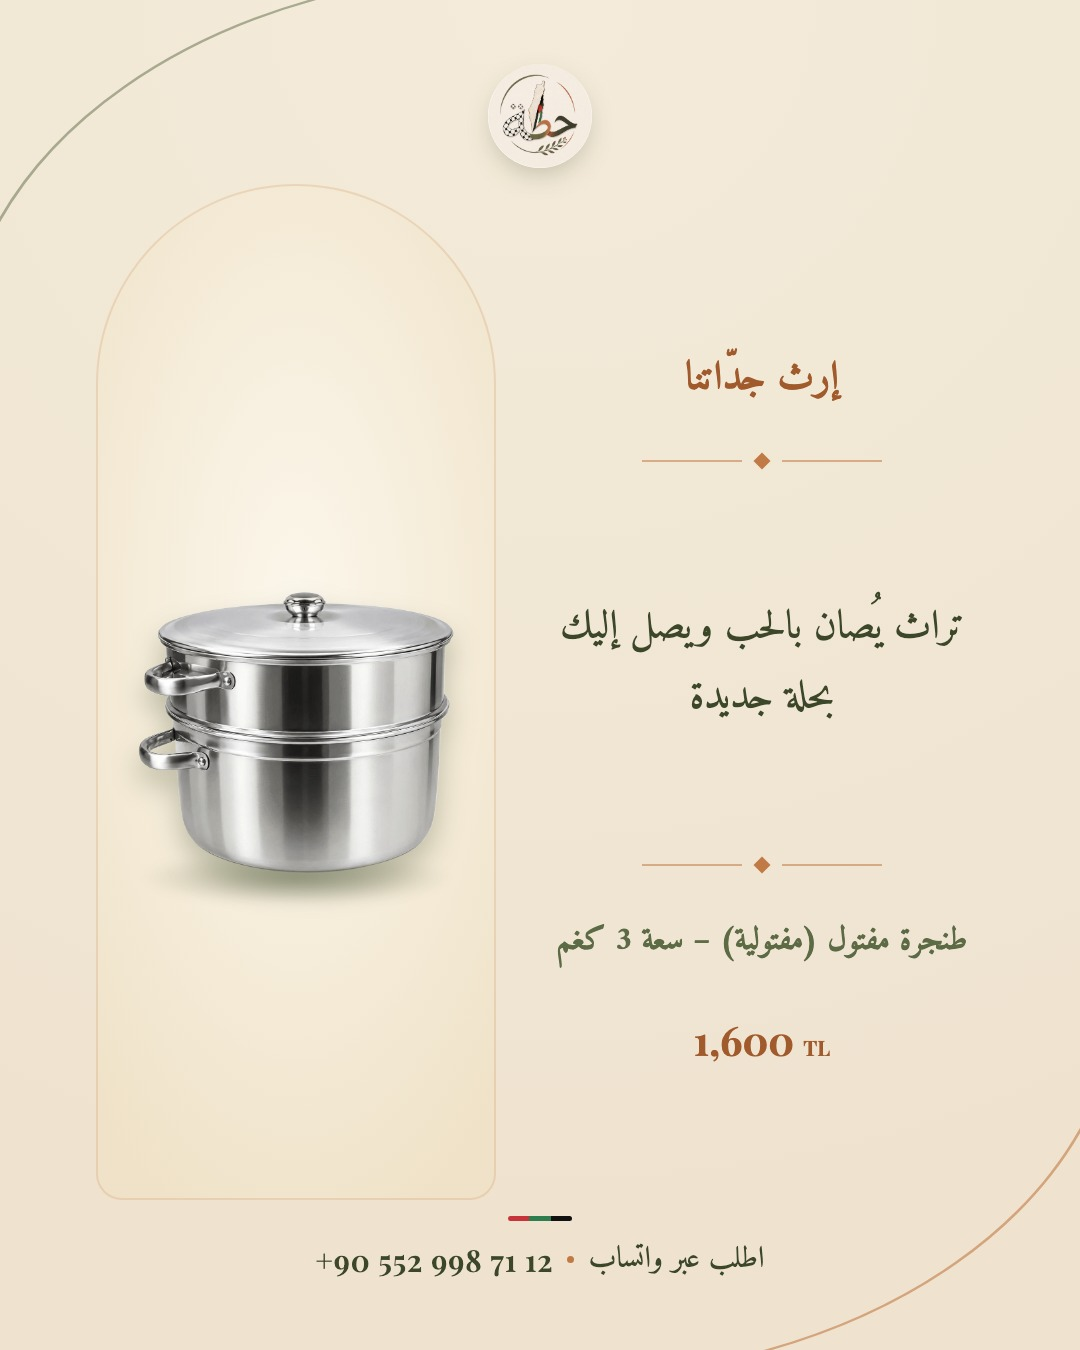
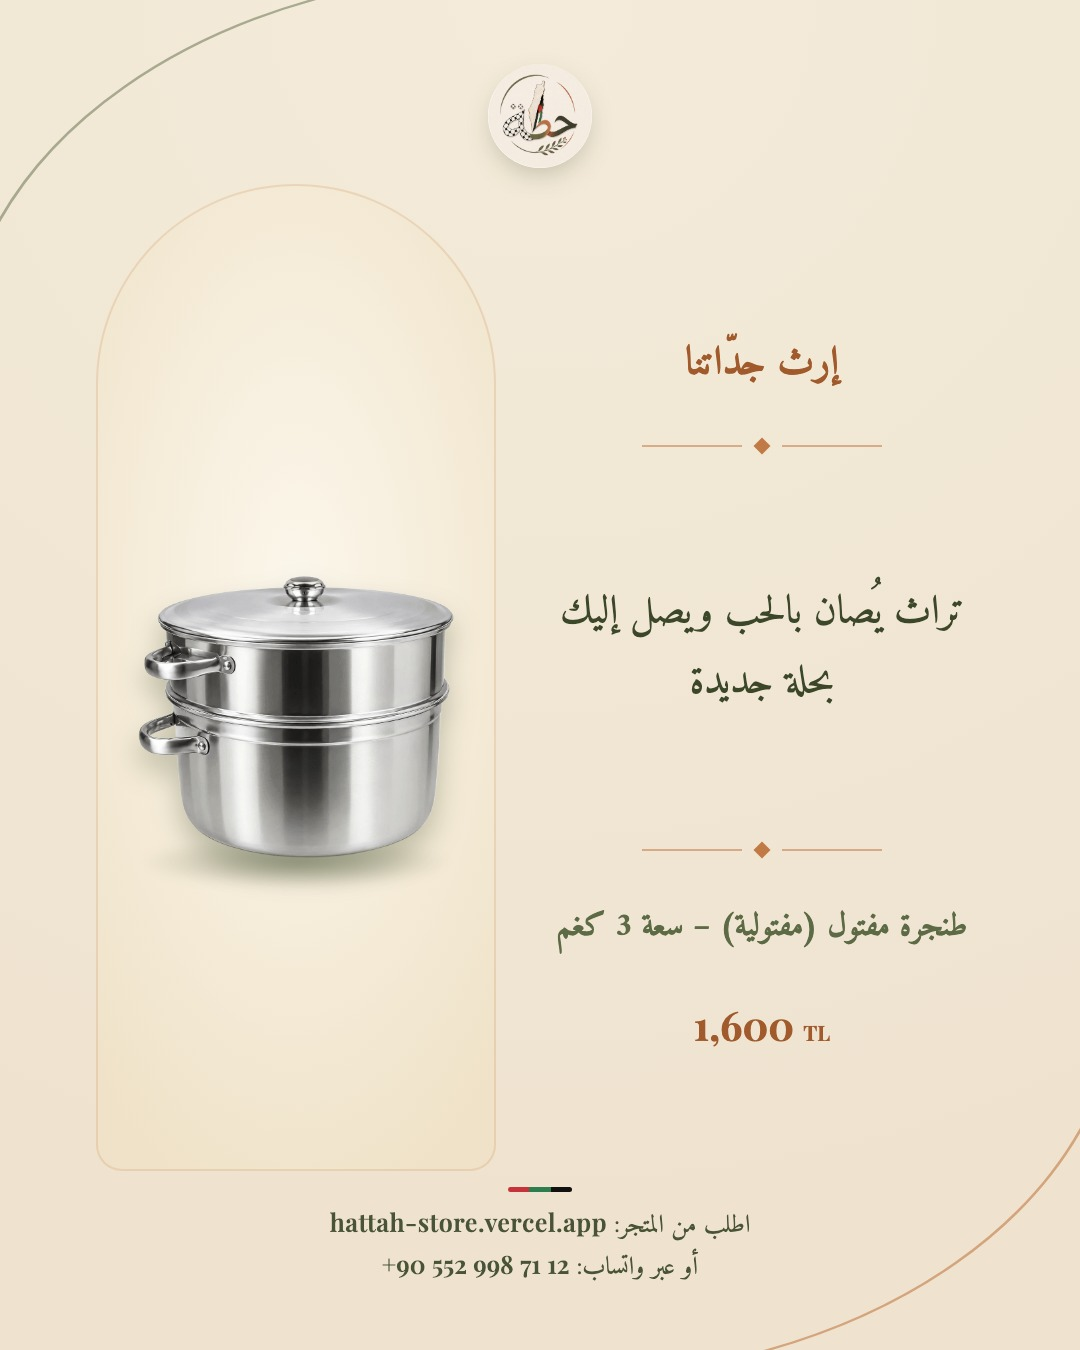
Social: two-line store+WhatsApp CTA on images; richer 600-1000 char captions with length enforcement

diff --git a/automation/src/captions.ts b/automation/src/captions.ts
@@ -2,7 +2,7 @@ import OpenAI from "openai";
 import { z } from "zod";
 import type { Angle, DesignText, ProductRecord, SocialSettings } from "./types.js";
 import { effectivePrice } from "./products.js";
-import { whatsappDisplay } from "./render/render.js";
+import { siteDisplay, whatsappDisplay } from "./render/render.js";
 import { isDryRun, need } from "./env.js";
 import { log } from "./time.js";
 
@@ -10,9 +10,14 @@ const wordCount = (v: string) => v.trim().split(/\s+/).filter(Boolean).length;
 export const normalizeText = (v: string) =>
   v.replace(/[\u064B-\u0652\u0640]/g, "").replace(/[^\p{L}\p{N}\s]/gu, "").replace(/\s+/g, " ").trim().toLowerCase();
 
+export const BODY_MIN = 600;
+export const BODY_MAX = 1000;
+
 const CaptionSchema = z.object({
-  caption_ar: z.string().min(10),
-  caption_en: z.string().min(5),
+  caption_hook: z.string().min(10),
+  caption_story: z.array(z.string().min(20)).min(2).max(3),
+  caption_details: z.array(z.string().min(5)).min(2).max(6),
+  caption_en: z.string().min(10),
   caption_tr: z.string(),
   hashtags: z.array(z.string()).min(3).max(12),
   image_headline: z.string().refine((v) => wordCount(v) >= 2 && wordCount(v) <= 6, "headline must be 2–6 words"),
@@ -23,9 +28,11 @@ type CaptionJson = z.infer<typeof CaptionSchema>;
 const JSON_SCHEMA = {
   type: "object",
   additionalProperties: false,
-  required: ["caption_ar", "caption_en", "caption_tr", "hashtags", "image_headline", "image_subline"],
+  required: ["caption_hook", "caption_story", "caption_details", "caption_en", "caption_tr", "hashtags", "image_headline", "image_subline"],
   properties: {
-    caption_ar: { type: "string" },
+    caption_hook: { type: "string" },
+    caption_story: { type: "array", items: { type: "string" } },
+    caption_details: { type: "array", items: { type: "string" } },
     caption_en: { type: "string" },
     caption_tr: { type: "string" },
     hashtags: { type: "array", items: { type: "string" } },
@@ -33,6 +40,17 @@ const JSON_SCHEMA = {
     image_subline: { type: "string" },
   },
 } as const;
+
+/** The caption text before the CTA and hashtags (what the length rule measures). */
+export function captionBody(c: CaptionJson, includeTr = false): string {
+  return [
+    c.caption_hook.trim(),
+    ...c.caption_story.map((x) => x.trim()),
+    c.caption_details.map((x) => x.trim()).join("\n"),
+    c.caption_en.trim(),
+    ...(includeTr && c.caption_tr.trim() ? [c.caption_tr.trim()] : []),
+  ].join("\n\n");
+}
 
 const ANGLE_BRIEF: Record<Angle, string> = {
   showcase: "عرض المنتج: صِف المنتج وما يميّزه (الخامة، التطريز، الاستخدام) بدفء وبساطة.",
@@ -42,8 +60,8 @@ const ANGLE_BRIEF: Record<Angle, string> = {
 };
 
 const SYSTEM = `أنت كاتب محتوى لعلامة "حَطّة" (HATTAH)، متجر في إسطنبول يبيع منتجات تراثية فلسطينية/غزّية: هوديات، تطريز، لوحات، ميداليات، أكلات منزلية.
-الصوت: دافئ، فخور، أصيل، بلهجة شامية/فلسطينية بيضاء قريبة، قصير وإنساني، غير بيعي.
-ممنوع: ادّعاءات غير حقيقية (جودة/مواد/توصيل/شحن/كميات/خصومات غير مذكورة في البيانات)، شعارات أو مواقف سياسية، كلمات قد تعرّض الحساب للحظر على Meta (حرب، قتل، مقاومة، ...)، الإيموجي الكثير (٢ كحد أقصى).
+الصوت: دافئ، فخور، أصيل، بلهجة شامية/فلسطينية بيضاء قريبة، إنساني وغير بيعي. افتتاحياتك متنوعة وحيّة ولا تبدأ أبدًا بعبارات عامة مثل «منتج رائع» أو «اكتشف».
+ممنوع: ادّعاءات غير حقيقية (جودة/مواد/توصيل/شحن/كميات/خصومات غير مذكورة في البيانات)، شعارات أو مواقف سياسية، كلمات قد تعرّض الحساب للحظر على Meta (حرب، قتل، مقاومة، ...)، الإيموجي: لا تضع إيموجي في الجمل السردية؛ في سطور التفاصيل فقط إيموجي واحد أنيق في بداية كل سطر.
 اكتب فقط من بيانات المنتج المعطاة، ولا تخترع تفاصيل.
 المخرجات JSON فقط.`;
 
@@ -116,7 +134,12 @@ function stub(p: ProductRecord, angle: Angle, salt = 0): CaptionJson {
   const headline = pool[(hash("h") + salt) % pool.length][0];
   const subline = pool[(hash("s") + salt) % pool.length][1];
   return {
-    caption_ar: `${p.name_ar} — قطعة تحمل روح التراث الفلسطيني. (نص تجريبي DRY_RUN)`,
+    caption_hook: `${p.name_ar} — حكاية تبدأ من البيت. (نص تجريبي DRY_RUN)`,
+    caption_story: [
+      "كل قطعة عندنا تحمل ذاكرة وتراثًا، ويدًا صنعتها بحب وصبر حتى تصل إليك وتصير جزءًا من يومك.",
+      "نختارها بعناية لأنها أكثر من منتج؛ هي لغة صغيرة نحكي بها عن الأصل والبيت والناس الطيبين.",
+    ],
+    caption_details: ["✨ تفصيل تجريبي أول", "🧵 تفصيل تجريبي ثانٍ"],
     caption_en: `${p.name_en} — a piece that carries Palestinian heritage. (dry-run text)`,
     caption_tr: "",
     hashtags: ["#حطة_ستور", "#صناعة_يدوية", "#هدايا_فلسطينية"],
@@ -130,7 +153,7 @@ export function placeholderDesign(p: ProductRecord, angle: Angle, salt = 0): Req
   return { headline: j.image_headline, subline: j.image_subline };
 }
 
-async function callModel(p: ProductRecord, categoryAr: string, angle: Angle, languages: string[], recent: string[]): Promise<CaptionJson> {
+async function callModel(p: ProductRecord, categoryAr: string, angle: Angle, languages: string[], recent: string[], hint = ""): Promise<CaptionJson> {
   const client = new OpenAI({ apiKey: need("OPENAI_API_KEY") });
   const model = process.env.OPENAI_MODEL || "gpt-6.1-sol";
   const user = `زاوية المنشور: ${angle} — ${ANGLE_BRIEF[angle]}
@@ -139,14 +162,17 @@ async function callModel(p: ProductRecord, categoryAr: string, angle: Angle, lan
 ${productBrief(p, categoryAr)}
 
 المطلوب (JSON):
-- caption_ar: كابشن بالعربية (٢–٤ جمل قصيرة، حتى ٦٠٠ حرف). لا تضع رقم الواتساب ولا الهاشتاغات فيه (تُضاف تلقائيًا).
-- caption_en: سطر أو سطران بالإنجليزية فقط (حتى ٢٠٠ حرف).
+- caption_hook: سطر افتتاحي عاطفي قوي واحد (جملة واحدة، لا يشبه الافتتاحيات العامة)، بلهجة شامية دافئة.
+- caption_story: فقرتان أو ثلاث فقرات قصيرة (٢–٣ جمل لكل فقرة) تحكي القصة والمعنى وراء المنتج: التراث، الحرفة، الرمز، البيت والذاكرة الفلسطينية — اعتمد فقط على ما يدعمه وصف المنتج وما هو معروف عن الحرفة دون ادّعاءات أو معلومات مخترعة.
+- caption_details: ٢–٥ سطور قصيرة نظيفة لتفاصيل المنتج الفعلية من البيانات (الخامة، المقاسات، الألوان، الاستخدام، والسعر إن كان مناسبًا ويوجد خصم حقيقي)، كل سطر يبدأ بإيموجي أنيق مناسب.
+- مجموع طول (hook + story + details + english) يجب أن يكون بين ${BODY_MIN} و${BODY_MAX} حرفًا بالضبط تقريبًا — لا أقل ولا أكثر. لا تضع رقم الواتساب ولا رابط المتجر ولا الهاشتاغات فيها (تُضاف تلقائيًا).
+- caption_en: سطر أو سطران بالإنجليزية كملخص قصير (حتى ٢٢٠ حرفًا).
 - caption_tr: ${languages.includes("tr") ? "سطر بالتركية (حتى ٢٠٠ حرف)" : 'اتركه "" لأن التركية غير مطلوبة'}.
 - hashtags: ٤–٦ وسوم خاصة بهذا المنتج (بدون تكرار)، كل وسم يبدأ بـ # وبدون مسافات.
 - image_headline: من ٢ إلى ٦ كلمات بالضبط كحد أقصى ٦، بلهجة شامية دافئة. ${IMAGE_TEXT_BRIEF[angle]}
 - image_subline: من ٤ إلى ١٥ كلمة كحد أقصى ١٥. نص التصميم قصير وبدون هاشتاغات أو أرقام هاتف.
 - قواعد صارمة لنص التصميم (العنوان والسطر الفرعي): ممنوع ذكر الأسعار أو العملة (ليرة/TL) أو أي أرقام في العنوان؛ ممنوع تكرار اسم المنتج أو إعادة صياغته في السطر الفرعي (اسم المنتج يظهر على التصميم أصلًا) — قدّم معلومة جديدة عنه؛ استخدم الأرقام اللاتينية (0-9) إن لزم رقم في السطر الفرعي.
-${recent.length ? `\nنصوص استُخدمت في آخر ٣٠ يومًا — ممنوع تكرار أي عنوان أو جملة منها أو الاقتراب منها في الصياغة:\n${recent.map((r) => "- " + r).join("\n")}` : ""}`;
+${hint ? `\nتنبيه من المحاولة السابقة: ${hint}\n` : ""}${recent.length ? `\nنصوص استُخدمت في آخر ٣٠ يومًا — ممنوع تكرار أي عنوان أو جملة منها أو الاقتراب منها في الصياغة:\n${recent.map((r) => "- " + r).join("\n")}` : ""}`;
 
   const res = await client.responses.create({
     model,
@@ -165,10 +191,8 @@ export interface CaptionResult {
 }
 
 export function assembleCaption(c: CaptionJson, settings: SocialSettings): string {
-  const wa = whatsappDisplay();
-  const parts = [c.caption_ar.trim(), c.caption_en.trim()];
-  if (settings.caption_languages.includes("tr") && c.caption_tr.trim()) parts.push(c.caption_tr.trim());
-  parts.push(`📲 للطلب عبر واتساب | Order via WhatsApp: ${wa}`);
+  const body = captionBody(c, settings.caption_languages.includes("tr"));
+  const cta = `اطلب من المتجر: ${siteDisplay()}\nأو عبر واتساب: ${whatsappDisplay()}`;
 
   const seen = new Set<string>();
   const tags: string[] = [];
@@ -179,13 +203,14 @@ export function assembleCaption(c: CaptionJson, settings: SocialSettings): strin
     tags.push(t);
     if (tags.length >= 10) break;
   }
-  let text = parts.join("\n\n") + "\n\n" + tags.join(" ");
-  // Hard cap ~1,200 chars: drop hashtags from the end first.
-  while (text.length > 1200 && tags.length > 5) {
+  const build = () => `${body}\n\n${cta}\n\n${tags.join(" ")}`;
+  let text = build();
+  // Instagram's hard limit is 2,200 characters: drop hashtags from the end first.
+  while (text.length > 2100 && tags.length > 5) {
     tags.pop();
-    text = parts.join("\n\n") + "\n\n" + tags.join(" ");
+    text = build();
   }
-  return text.slice(0, 1250);
+  return text;
 }
 
 /** Generates caption + on-image copy. Validates the JSON and retries once. */
@@ -199,6 +224,9 @@ export async function generateCaption(
   const nameTokens = normalizeText(p.name_ar).split(" ").filter((t) => t.length > 2);
   /** Rules the model was told but may break: prices/digits in text, or a subline that just restates the product name. */
   const breaksRules = (j: CaptionJson): string | null => {
+    const len = captionBody(j, settings.caption_languages.includes("tr")).length;
+    if (len < BODY_MIN) return `caption too short (${len} chars, need ${BODY_MIN}–${BODY_MAX})`;
+    if (len > BODY_MAX) return `caption too long (${len} chars, need ${BODY_MIN}–${BODY_MAX})`;
     const head = j.image_headline, sub = j.image_subline;
     if (/[0-9٠-٩]/.test(head)) return "headline contains digits";
     if (/(ليرة|₺|\bTL\b)/i.test(head + " " + sub)) return "text mentions price/currency";
@@ -219,9 +247,10 @@ export async function generateCaption(
     // One retry for invalid JSON / limits, and up to 3 tries to avoid repeating
     // a headline or subline used in the last 30 days.
     json = null as unknown as CaptionJson;
+    let hint = "";
     for (let attempt = 1; attempt <= 3; attempt++) {
       try {
-        json = await callModel(p, categoryAr, angle, settings.caption_languages, recentTexts);
+        json = await callModel(p, categoryAr, angle, settings.caption_languages, recentTexts, hint);
       } catch (e) {
         log(`caption attempt ${attempt} failed:`, (e as Error).message);
         if (attempt === 3) throw e;
@@ -229,7 +258,8 @@ export async function generateCaption(
       }
       const broken = breaksRules(json);
       if (!isRepeat(json) && !broken) break;
-      log(`attempt ${attempt}: ${broken ?? "image text repeats a recent post"}, retrying`);
+      hint = broken ?? "نص التصميم يكرر نصًا حديثًا";
+      log(`attempt ${attempt}: ${hint}, retrying`);
       if (attempt === 3) throw new Error(broken ?? "model kept repeating a headline used in the last 30 days");
     }
   }

diff --git a/automation/src/render/templates.ts b/automation/src/render/templates.ts
@@ -15,6 +15,7 @@ export interface TemplateInput {
   logo: string;
   fontCss: string;
   whatsappDisplay: string;
+  siteDisplay: string;
   text: Required<DesignText>;
 }
 
@@ -79,9 +80,8 @@ body{font-family:'Amiri','Playfair Display',serif;color:${C.oliveDeep}}
 .cat{font-size:${story ? 34 : 28}px;color:${C.terraDeep};letter-spacing:.02em}
 .price{font-family:'Playfair Display','Amiri',serif;font-weight:700;direction:ltr;white-space:nowrap}
 .old{font-family:'Playfair Display','Amiri',serif;text-decoration:line-through;opacity:.6;direction:ltr}
-.wa{display:flex;align-items:center;justify-content:center;gap:14px;font-size:${story ? 36 : 30}px;direction:rtl;flex:none}
-.wa b{font-family:'Playfair Display',serif;font-weight:600;direction:ltr;unicode-bidi:isolate;letter-spacing:.03em}
-.wa .dot{width:7px;height:7px;border-radius:50%;background:${C.terra}}
+.cta{display:flex;flex-direction:column;align-items:center;gap:2px;font-size:${story ? 29 : 25}px;line-height:1.45;direction:rtl;flex:none;text-align:center;opacity:.92}
+.cta b{font-family:'Playfair Display',serif;font-weight:600;direction:ltr;unicode-bidi:isolate;letter-spacing:.02em}
 .diamond{width:12px;height:12px;background:${C.terra};transform:rotate(45deg);flex:none}
 .rule{display:flex;align-items:center;gap:14px;width:240px;flex:none}
 .rule::before,.rule::after{content:"";flex:1;height:2px;background:${C.terra};opacity:.55}
@@ -104,7 +104,7 @@ function photoBox(
 }
 
 const waLine = (t: TemplateInput) =>
-  `<div class="wa"><span>اطلب عبر واتساب</span><span class="dot"></span><b>${esc(t.whatsappDisplay)}</b></div>`;
+  `<div class="cta"><div>اطلب من المتجر: <b>${esc(t.siteDisplay)}</b></div><div>أو عبر واتساب: <b>${esc(t.whatsappDisplay)}</b></div></div>`;
 
 const priceBlock = (t: TemplateInput, size: number, color: string) => {
   const old = t.oldPrice

diff --git a/automation/src/render/render.ts b/automation/src/render/render.ts
@@ -82,6 +82,10 @@ export function whatsappDisplay(): string {
   return `+${d}`;
 }
 
+export function siteDisplay(): string {
+  return (process.env.SITE_URL ?? "hattah-store.vercel.app").replace(/^https?:\/\//, "").replace(/\/$/, "");
+}
+
 export class Renderer {
   private browser: Browser | null = null;
   lastViolations = 0;
@@ -110,6 +114,7 @@ export class Renderer {
       logo: logoDataUri(),
       fontCss: fontCss(),
       whatsappDisplay: whatsappDisplay(),
+      siteDisplay: siteDisplay(),
       text: req.text,
     };
     const size = SIZES[req.type];
@@ -154,7 +159,7 @@ export class Renderer {
       const violations = await page.evaluate(
         ({ W, H, top, bottom, side }) => {
           const bad: string[] = [];
-          document.querySelectorAll<HTMLElement>(".logo,.fit>span,.wa,.cat,.price,.old,.flag").forEach((el) => {
+          document.querySelectorAll<HTMLElement>(".logo,.fit>span,.cta,.cat,.price,.old,.flag").forEach((el) => {
             const r = el.getBoundingClientRect();
             if (r.left < side - 1 || r.right > W - side + 1 || r.top < top - 1 || r.bottom > H - bottom + 1)
               bad.push(`${el.className || el.tagName} [${Math.round(r.left)},${Math.round(r.top)} → ${Math.round(r.right)},${Math.round(r.bottom)}] "${(el.textContent ?? "").slice(0, 24)}"`);
